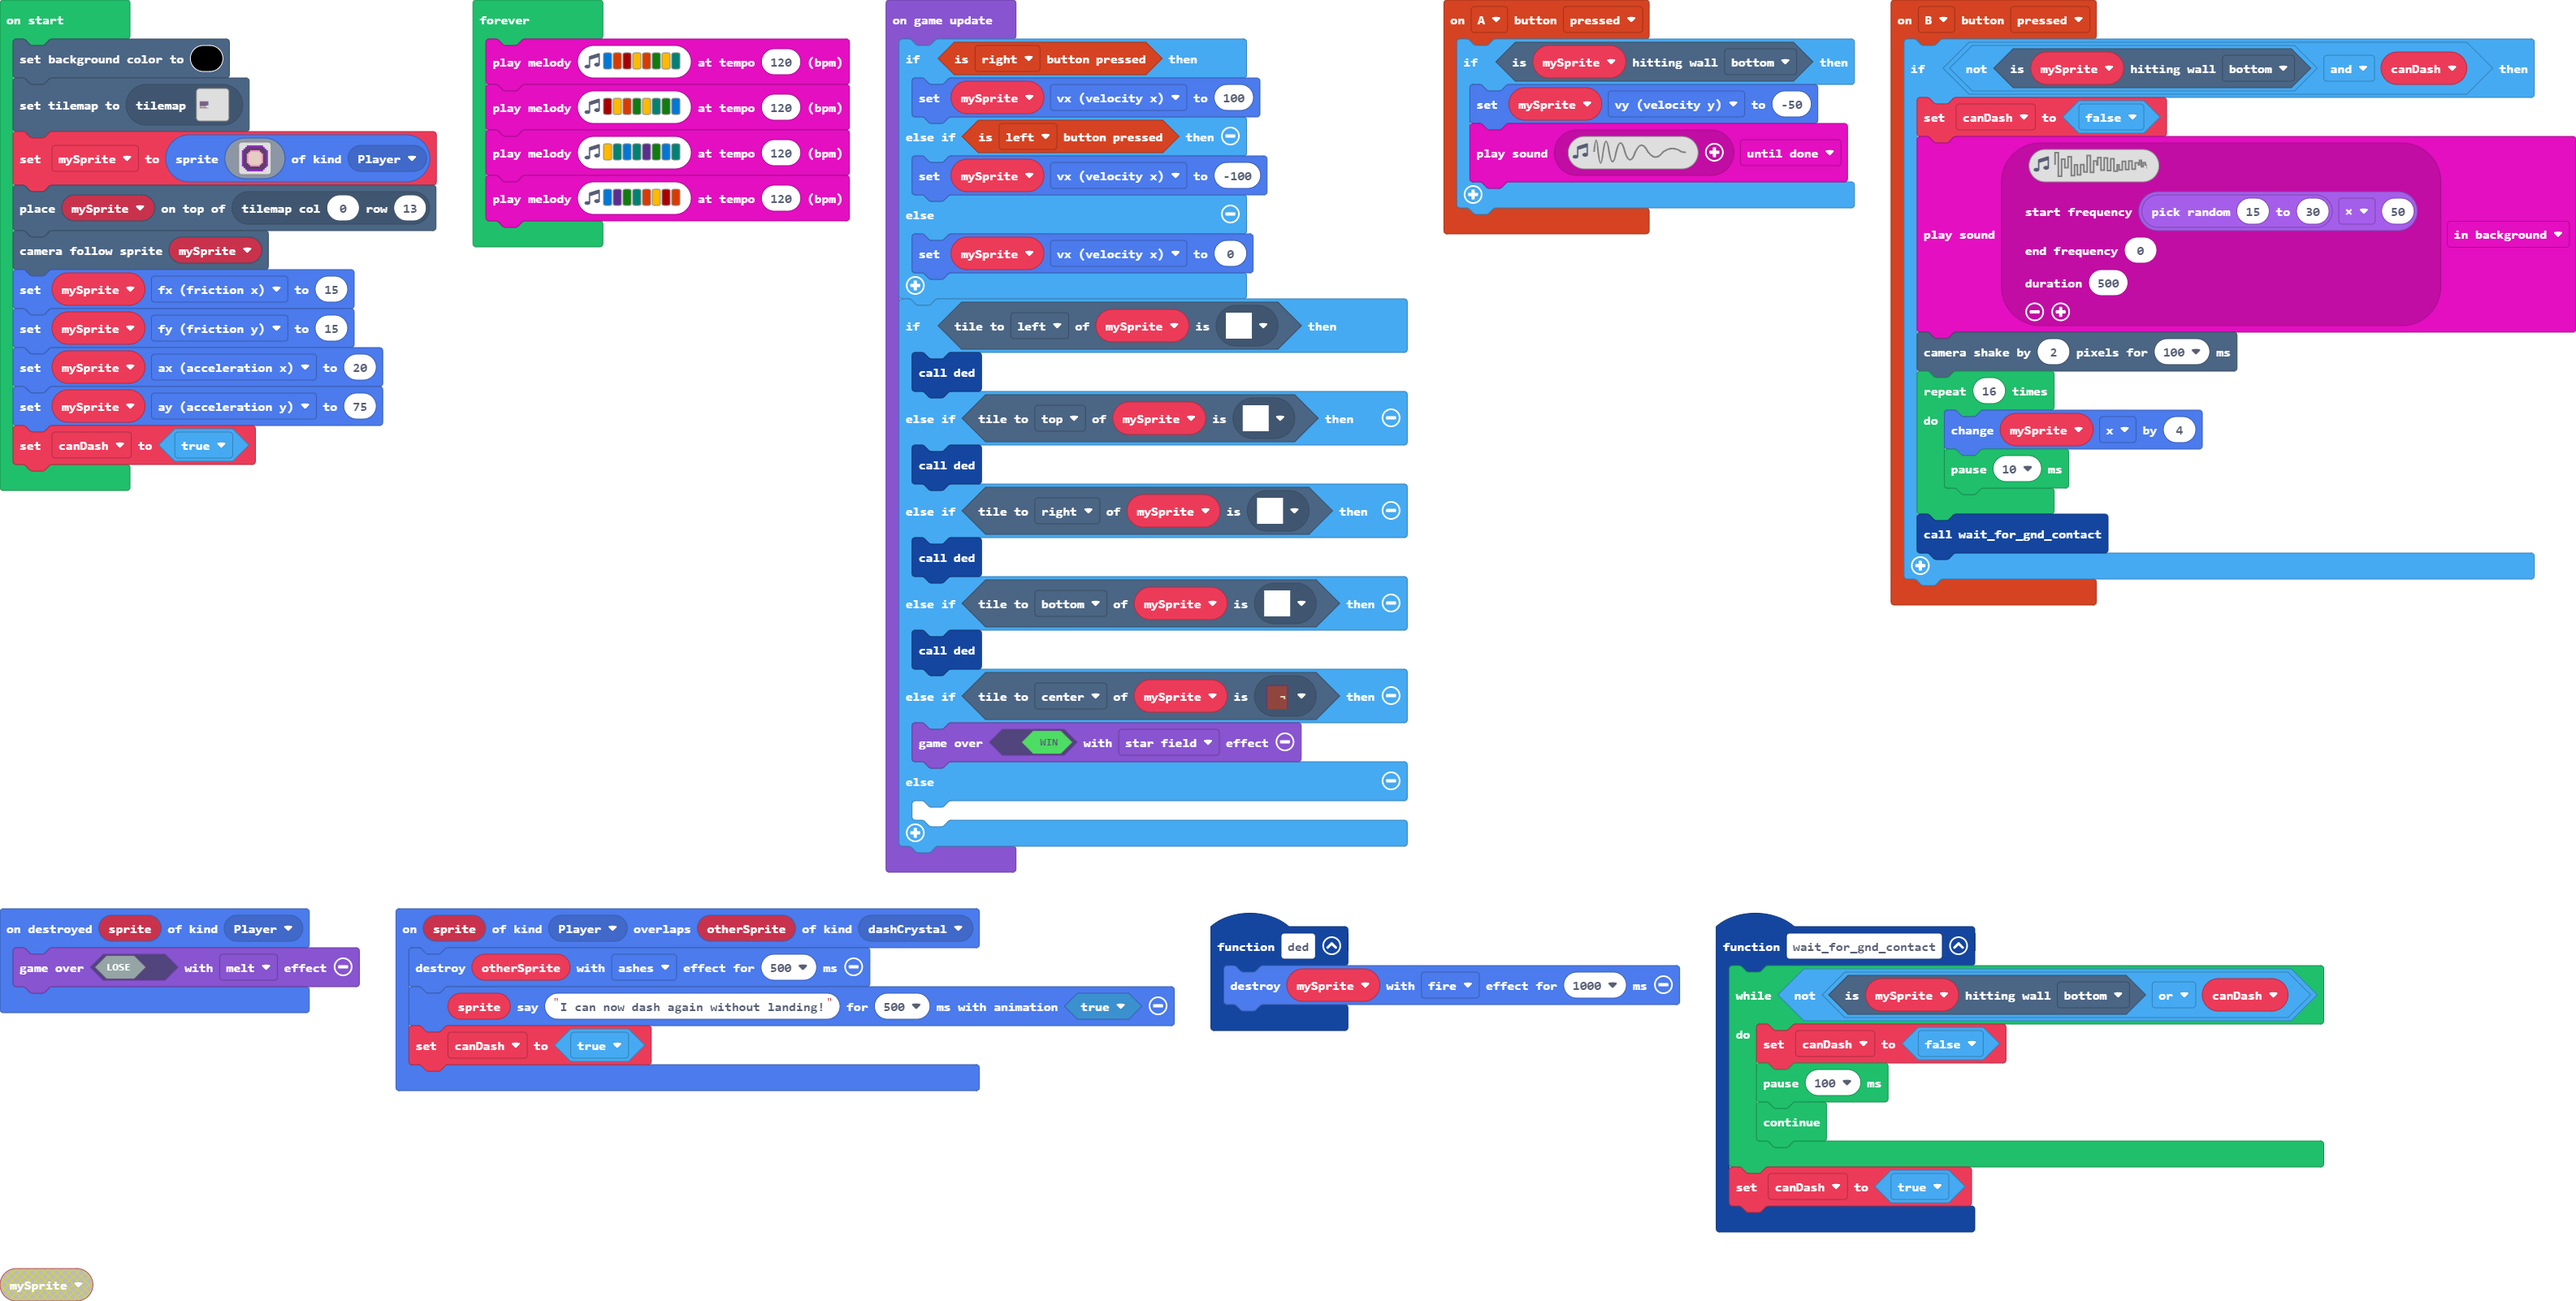
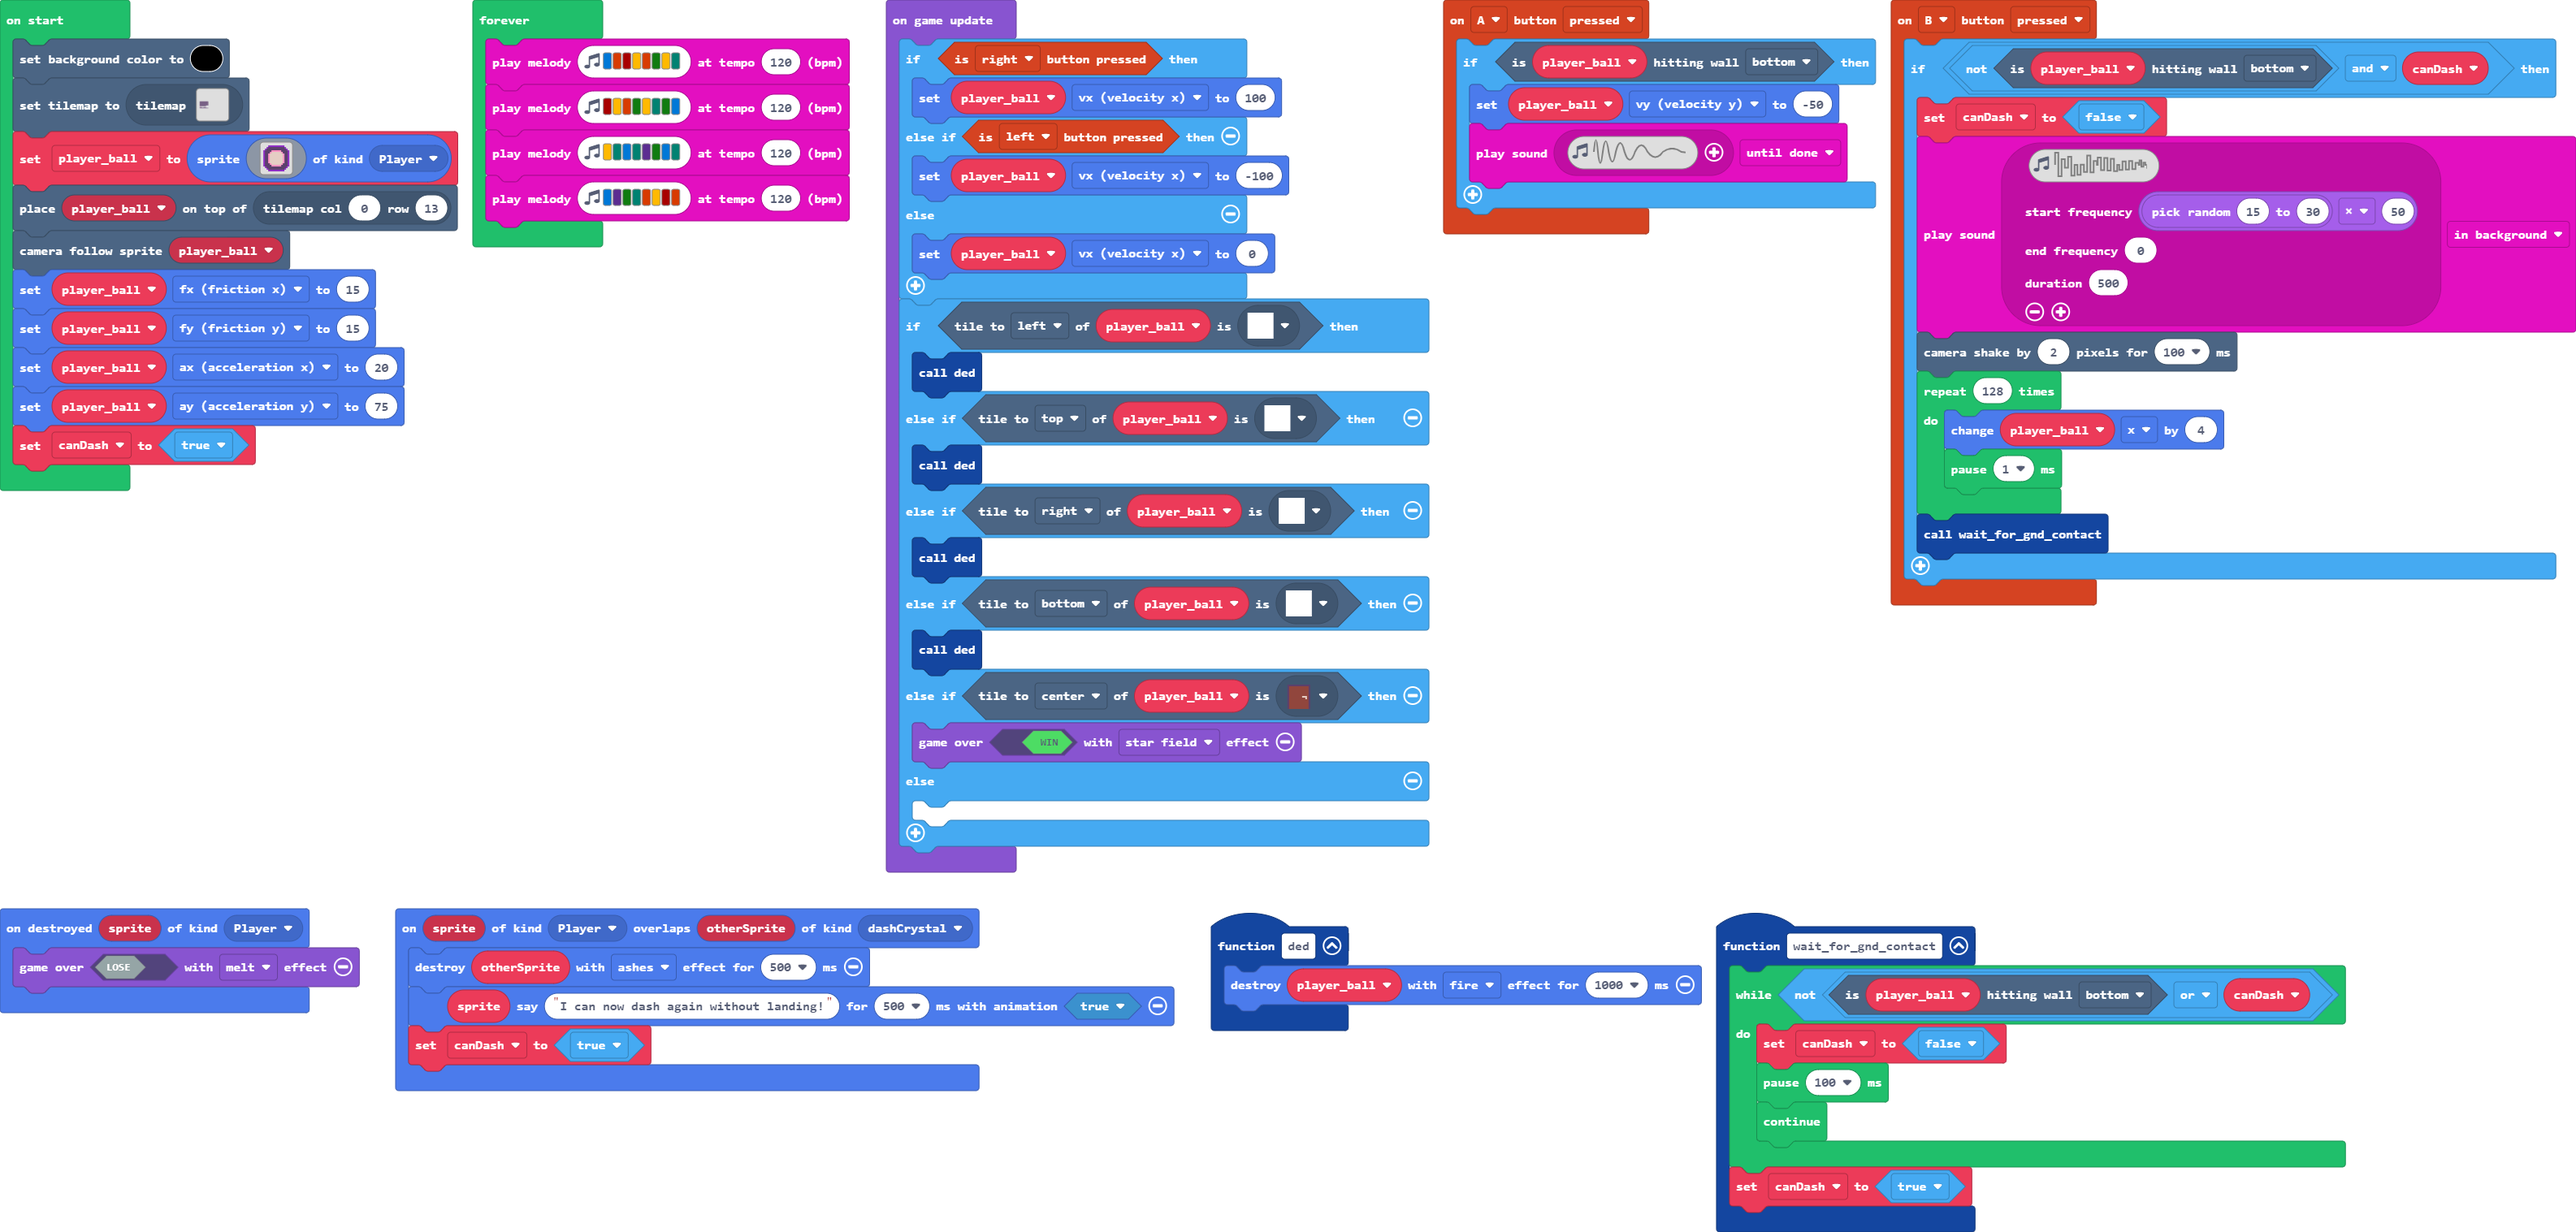
Player spritevar renamed

Changed region(s): [[0.0, 0.0, 0.9366, 1.0], [0.562, 0.0, 1.0, 0.4957], [0.0, 0.9604, 0.0624, 1.0]]

diff --git a/main.ts b/main.ts
@@ -2,7 +2,7 @@ namespace SpriteKind {
     export const dashCrystal = SpriteKind.create()
 }
 controller.B.onEvent(ControllerButtonEvent.Pressed, function () {
-    if (!(mySprite.isHittingTile(CollisionDirection.Bottom)) && canDash) {
+    if (!(player_ball.isHittingTile(CollisionDirection.Bottom)) && canDash) {
         canDash = false
         music.playSoundEffect(music.createSoundEffect(
         WaveShape.Noise,
@@ -15,15 +15,15 @@ controller.B.onEvent(ControllerButtonEvent.Pressed, function () {
         InterpolationCurve.Linear
         ), SoundExpressionPlayMode.InBackground)
         scene.cameraShake(2, 100)
-        for (let index = 0; index < 16; index++) {
-            mySprite.x += 4
-            pause(10)
+        for (let index = 0; index < 128; index++) {
+            player_ball.x += 4
+            pause(1)
         }
         wait_for_gnd_contact()
     }
 })
 function wait_for_gnd_contact () {
-    while (!(mySprite.isHittingTile(CollisionDirection.Bottom) || canDash)) {
+    while (!(player_ball.isHittingTile(CollisionDirection.Bottom) || canDash)) {
         canDash = false
         pause(100)
         continue;
@@ -31,8 +31,8 @@ function wait_for_gnd_contact () {
     canDash = true
 }
 controller.A.onEvent(ControllerButtonEvent.Pressed, function () {
-    if (mySprite.isHittingTile(CollisionDirection.Bottom)) {
-        mySprite.vy = -50
+    if (player_ball.isHittingTile(CollisionDirection.Bottom)) {
+        player_ball.vy = -50
         music.playSoundEffect(music.createSoundEffect(WaveShape.Sine, 5000, 0, 255, 0, 500, SoundExpressionEffect.None, InterpolationCurve.Linear), SoundExpressionPlayMode.UntilDone)
     }
 })
@@ -42,40 +42,40 @@ sprites.onOverlap(SpriteKind.Player, SpriteKind.dashCrystal, function (sprite, o
     canDash = true
 })
 function ded () {
-    mySprite.destroy(effects.fire, 1000)
+    player_ball.destroy(effects.fire, 1000)
 }
 sprites.onDestroyed(SpriteKind.Player, function (sprite) {
     game.over(false, effects.melt)
 })
 let canDash = false
-let mySprite: Sprite = null
+let player_ball: Sprite = null
 scene.setBackgroundColor(15)
 tiles.setCurrentTilemap(tilemap`level0`)
-mySprite = sprites.create(assets.image`character`, SpriteKind.Player)
-tiles.placeOnTile(mySprite, tiles.getTileLocation(0, 13))
-scene.cameraFollowSprite(mySprite)
-mySprite.fx = 15
-mySprite.fy = 15
-mySprite.ax = 20
-mySprite.ay = 75
+player_ball = sprites.create(assets.image`character`, SpriteKind.Player)
+tiles.placeOnTile(player_ball, tiles.getTileLocation(0, 13))
+scene.cameraFollowSprite(player_ball)
+player_ball.fx = 15
+player_ball.fy = 15
+player_ball.ax = 20
+player_ball.ay = 75
 canDash = true
 game.onUpdate(function () {
     if (controller.right.isPressed()) {
-        mySprite.vx = 100
+        player_ball.vx = 100
     } else if (controller.left.isPressed()) {
-        mySprite.vx = -100
+        player_ball.vx = -100
     } else {
-        mySprite.vx = 0
+        player_ball.vx = 0
     }
-    if (mySprite.tileKindAt(TileDirection.Left, assets.tile`deadly tile`)) {
+    if (player_ball.tileKindAt(TileDirection.Left, assets.tile`deadly tile`)) {
         ded()
-    } else if (mySprite.tileKindAt(TileDirection.Top, assets.tile`deadly tile`)) {
+    } else if (player_ball.tileKindAt(TileDirection.Top, assets.tile`deadly tile`)) {
         ded()
-    } else if (mySprite.tileKindAt(TileDirection.Right, assets.tile`deadly tile`)) {
+    } else if (player_ball.tileKindAt(TileDirection.Right, assets.tile`deadly tile`)) {
         ded()
-    } else if (mySprite.tileKindAt(TileDirection.Bottom, assets.tile`deadly tile`)) {
+    } else if (player_ball.tileKindAt(TileDirection.Bottom, assets.tile`deadly tile`)) {
         ded()
-    } else if (mySprite.tileKindAt(TileDirection.Center, assets.tile`door`)) {
+    } else if (player_ball.tileKindAt(TileDirection.Center, assets.tile`door`)) {
         game.over(true, effects.starField)
     } else {
     	
